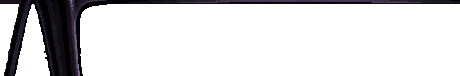
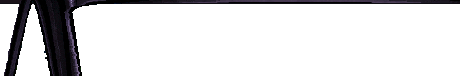
v0.81.11: friso da coluna A da Fúria F4 inclinado como a coluna (antes cortado numa reta vertical pelo recorte do vidro)
Claude-Session: https://claude.ai/code/session_01MLD9VR7gkmY4w6a9beZcp6

Changed region(s): [[0.1217, 0.0526, 0.2435, 0.9474], [0.1522, 0.9737, 0.1826, 1.0]]

diff --git a/tools/ref/f40_pillar_slant.py b/tools/ref/f40_pillar_slant.py
@@ -1,0 +1,48 @@
+"""Fúria F4: a borda de dentro da coluna A (o friso claro e a borracha do para-brisa) vinha cortada numa
+reta vertical (o recorte do vidro foi um retângulo), enquanto o lado de fora da coluna desce inclinado.
+Aqui o friso inteiro (as 8 colunas da borda) anda para a esquerda linha a linha, na inclinação da coluna
+(0,15 px por linha a partir do pé, no painel), e o que sobra à direita vira vidro. Depois de f40_cockpit2.py.
+Uso: python3 tools/ref/f40_pillar_slant.py src/assets/cockpit
+"""
+import os
+import sys
+
+import numpy as np
+from PIL import Image
+
+DIR = sys.argv[1]
+top = np.array(Image.open(os.path.join(DIR, 'f40-top.png')).convert('RGBA'))
+dash = np.array(Image.open(os.path.join(DIR, 'f40-dash.png')).convert('RGBA'))
+st = np.concatenate([top, dash])
+FOOT, SLOPE, BAND = 102, 0.15, 8
+
+
+def right_edge(y):
+    al = st[y, 30:120, 3] > 0
+    xs = np.nonzero(al)[0]
+    # fim do primeiro trecho opaco depois de x 40 (a coluna)
+    run = [x for x in xs if x + 30 >= 40]
+    if not run:
+        return None
+    e = run[0]
+    while e + 1 < len(al) and al[e + 1]:
+        e += 1
+    return e + 30
+
+
+r12 = right_edge(12)
+d12 = max(0, int(round(r12 - (85 - SLOPE * (FOOT - 12)))))
+for y in range(4, FOOT):
+    r = right_edge(y)
+    if r is None:
+        continue
+    d = d12 if y < 12 else max(0, int(round(r - (85 - SLOPE * (FOOT - y)))))
+    if d <= 0:
+        continue
+    band = st[y, r - BAND + 1:r + 1].copy()
+    st[y, r - d + 1:r + 1, 3] = 0
+    st[y, r - BAND + 1 - d:r + 1 - d] = band
+top2, dash2 = st[:top.shape[0]], st[top.shape[0]:]
+Image.fromarray(top2).save(os.path.join(DIR, 'f40-top.png'), optimize=True)
+Image.fromarray(dash2).save(os.path.join(DIR, 'f40-dash.png'), optimize=True)
+print('deslocamento no alto', d12)

diff --git a/CLAUDE.md b/CLAUDE.md
@@ -6,7 +6,7 @@
 
 ## Escopo
 - **Só mexer nos carros que o Victor já mandou atualizados**: Toro V12 (Diablo) e a viatura SV (lanternas: depois dos sprites rodar diablo_rear_lamps.py, âmbar do pisca por FORA),
-  Fúria TR, Fúria F4 (cabine nova: tools/ref/f40_cockpit2.py, painel da arte sem volante, volante da com volante, com o quadro Veglia e a luz verde de antes por decisão do Victor), Kaze NX, Serpe V10, Gaúcho GTI, Ímola S/R (hatch), Ímola Classic Coupé, Jornada LS
+  Fúria TR, Fúria F4 (cabine nova: tools/ref/f40_cockpit2.py e depois f40_pillar_slant.py, painel da arte sem volante, volante da com volante, com o quadro Veglia e a luz verde de antes por decisão do Victor), Kaze NX, Serpe V10, Gaúcho GTI, Ímola S/R (hatch), Ímola Classic Coupé, Jornada LS
   Jornada Sport (Voyage Sport 1992: voyagesport_*.py; depois do voyagesport_sprites.py rodar voyagesport_reverse.py: luz de ré apagada) e Savana GLS (Santana GLS 1990: santana_*.py;
   depois do santana_sprites.py rodar santana_rear_panel.py e santana_side_lamp.py)
   (Voyage LS 1986: voyage_sprites.py, voyage_cockpit.py, voyage_gauges.py, voyage_photos.py). O Ímola de
